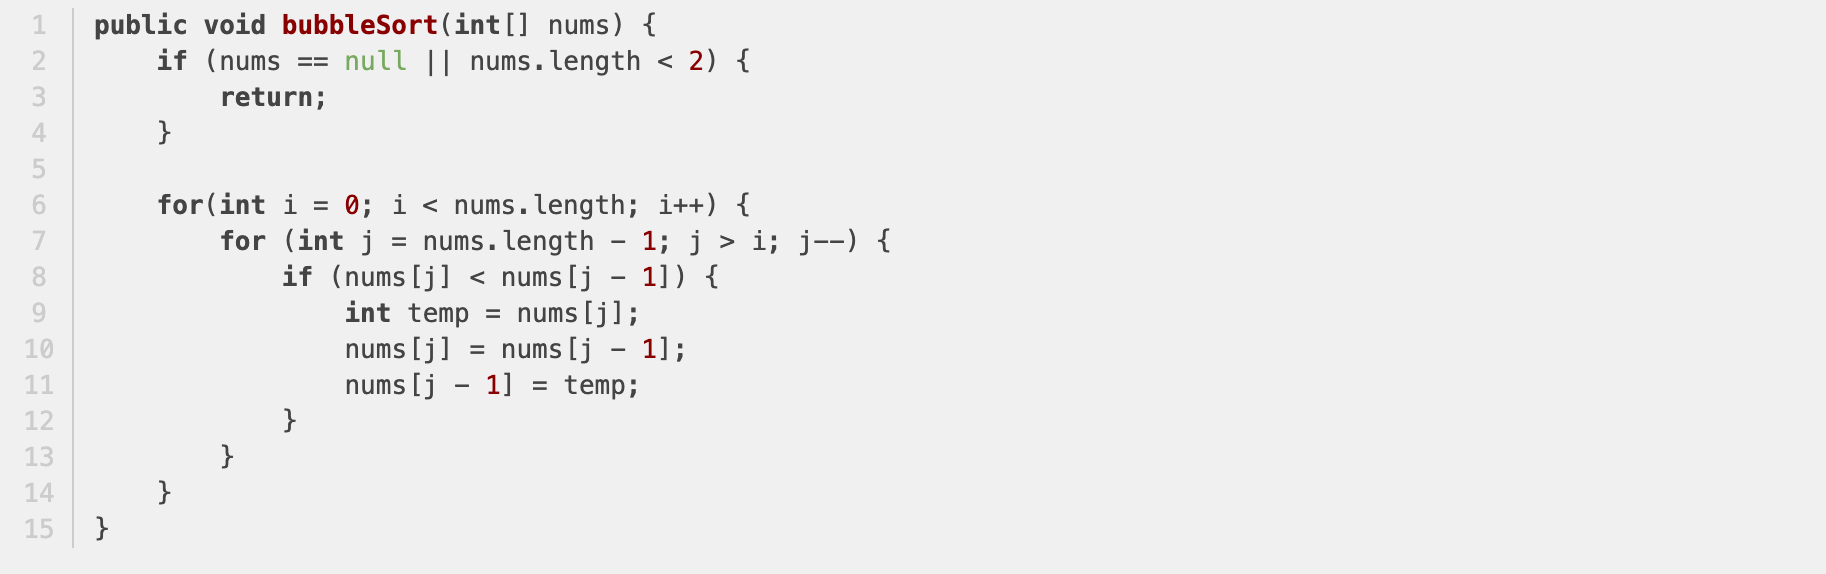
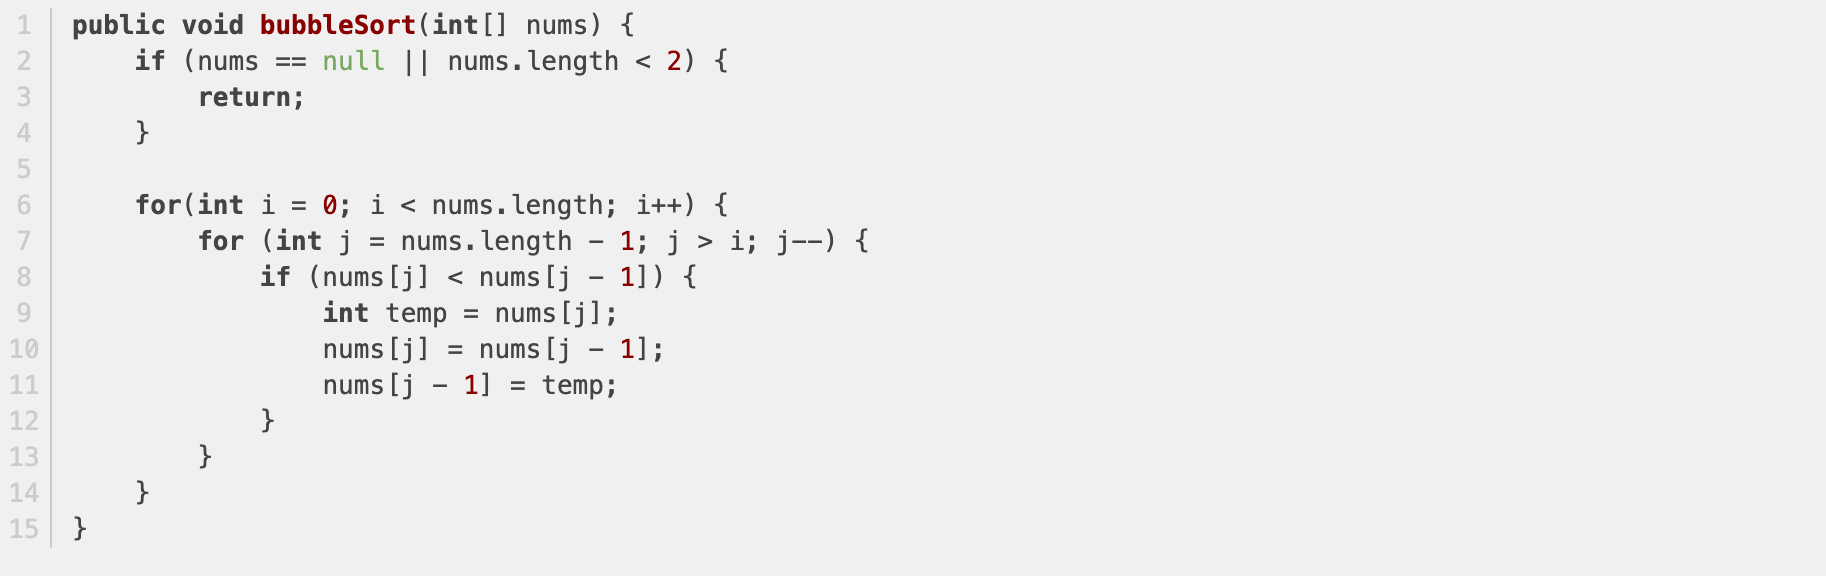
fixed highlight width issue

diff --git a/public/css/main.scss b/public/css/main.scss
@@ -77,6 +77,7 @@ pre {
 }
 
 table.hljs-ln {
+  width: auto;
   border-width: 0px;
 }
 table.hljs-ln td {

diff --git a/_popular/data-structure/data-structure-overview.md b/_popular/data-structure/data-structure-overview.md
@@ -5,7 +5,7 @@ title: "Data Structure Overview"
 index: 1101
 subcategory: data-structure
 date: 2016-03-01
-tags: [List, Tree, Time Complexity, Space Complexity]
+tags: [List, Tree, Time Complexity]
 ---
 
 > Overview of common data structures.

diff --git a/_popular/jekyll/jekyll-highlighting.md b/_popular/jekyll/jekyll-highlighting.md
@@ -66,6 +66,7 @@ Add line numbers with highlightjs-line-numbers.js, which is a plug-in for highli
 Add additional CSS style.
 ```css
 table.hljs-ln {
+  width: auto;
   border-width: 0px;
 }
 table.hljs-ln td {
